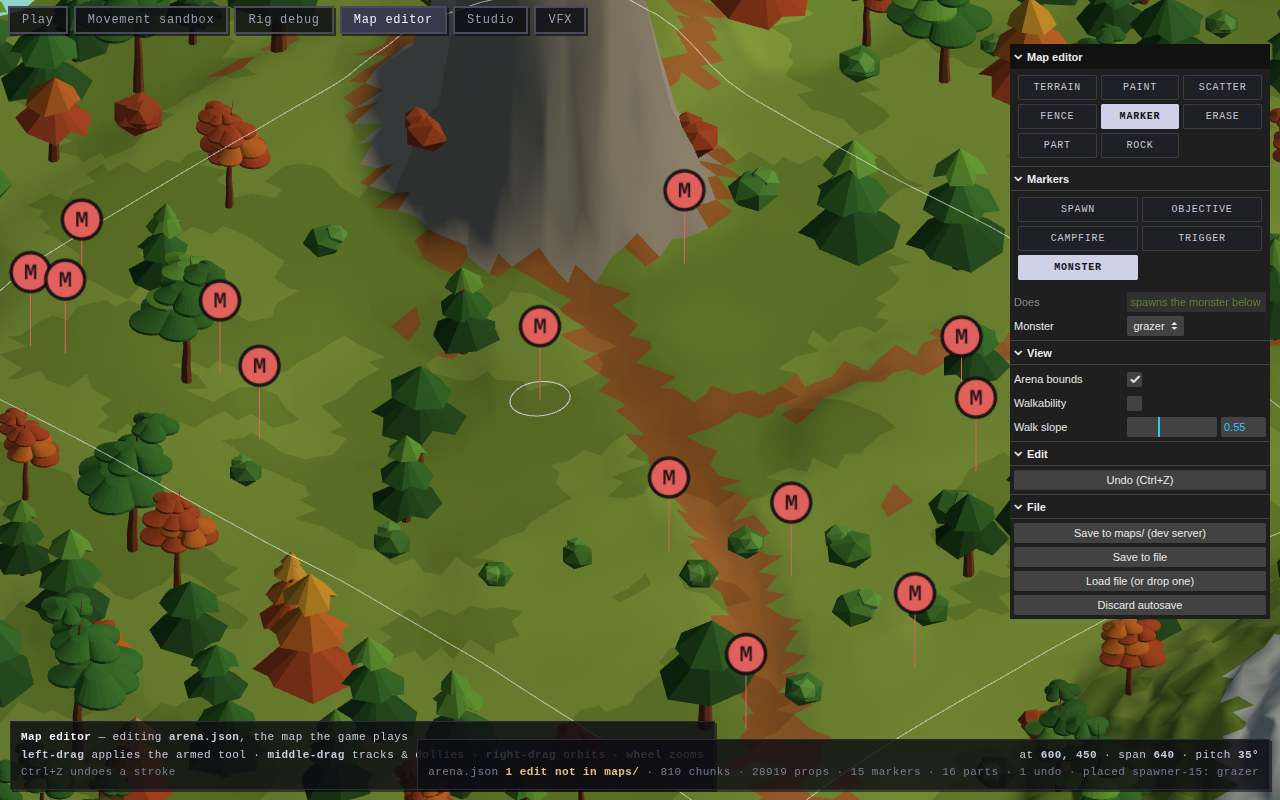
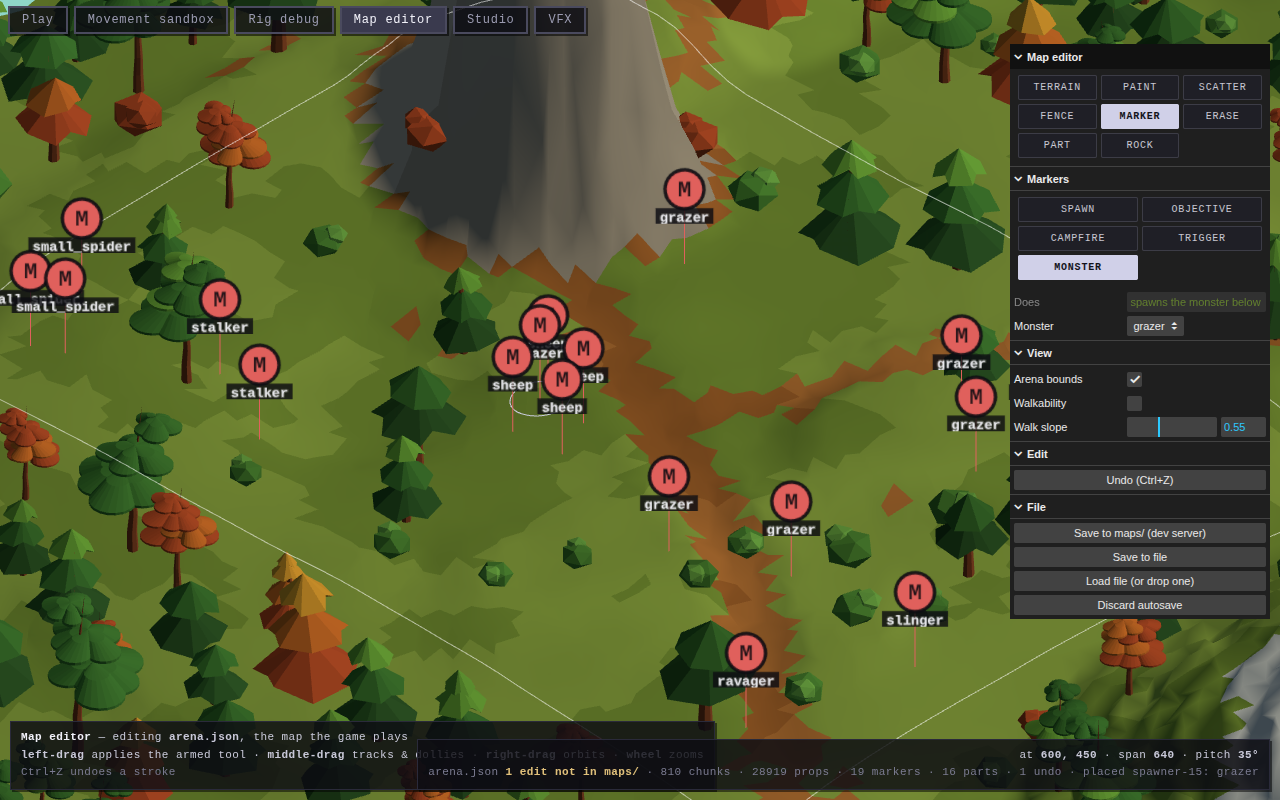
Write a spawner's monster on its marker in the map editor (#134)
* Write a spawner's monster on its marker in the map editor

The editor could already place a sheep -- the monster strip is derived
from `ALL_MONSTERS`, so adding the row put it in the dropdown -- but it
drew every spawner as the same red M. Four sheep, a slinger and a ravager
were six identical discs, and the one field that tells them apart is the
one the map view never showed. The in-game overlay has named its spawners
since spec 076; the editor, where they are actually placed, did not.

So a marker's disc now carries its label underneath it. Any labelled
marker, not just a spawner: a `trigger` named `boss-door` is worth reading
too, and a rule that applied to one kind is a rule somebody has to
remember to extend.

`markerCaption` is in `markers.ts` rather than in the view, for the reason
that file is pure -- what a marker *says* is a judgement and what it looks
like is drawing, and a judgement inside a canvas callback is one no test
can reach. The same split `world/spawner-overlay.ts` already makes.

Two things in the drawing are easy to get wrong and are worth the words
they cost:

  * the captioned texture is wider *and* the sprite is scaled by the same
    factors, so the disc comes out exactly the size it always was. A
    uniform scale on a wider texture squashes every disc on the map the
    moment one marker is given a name.
  * a captioned billboard is lowered by half the added height, because a
[…]

diff --git a/src/render/iso3d/editor/marker-view.ts b/src/render/iso3d/editor/marker-view.ts
@@ -1,6 +1,6 @@
 import * as THREE from 'three';
 import type { MapMarker, MapMarkerKind, MapRect } from '../../../terrain/index.js';
-import { MARKER_COLORS, MARKER_GLYPHS } from './markers.js';
+import { markerCaption, MARKER_COLORS, MARKER_GLYPHS } from './markers.js';
 
 /**
  * Drawing markers and the arena outline (spec 052).
@@ -22,19 +22,49 @@ const STEM_HEIGHT = 90;
 const TEXTURE_PX = 64;
 
 /**
+ * The captioned billboard: the same disc with a name written under it.
+ *
+ * Three times as wide as the plain one and a quarter again as tall, and the
+ * sprite is scaled by the same factors -- so the **disc comes out exactly the
+ * size it always was** and the caption is extra canvas around it rather than
+ * the marker shrinking to make room. Getting that wrong is subtle and ugly: a
+ * uniform sprite scale on a wider texture squashes every disc on the map the
+ * moment one marker is given a name.
+ */
+const CAPTION_W = TEXTURE_PX * 3;
+const CAPTION_H = TEXTURE_PX * 1.25;
+/** Font size for the caption, in texture pixels. */
+const CAPTION_PX = 19;
+/**
+ * How far a captioned billboard is lowered so its disc lands where a plain
+ * one's does.
+ *
+ * A sprite is centred on its position, and the caption is extra canvas *below*
+ * the disc -- so without this the disc rides up by half the added height and
+ * the stem, which is drawn to the exact point being marked, stops short of the
+ * thing it is pointing at. Half the growth, which is what recentring on the
+ * disc rather than on the picture comes to.
+ */
+const CAPTION_DISC_DROP = BILLBOARD_SIZE * 0.5 * (CAPTION_H / TEXTURE_PX - 1);
+
+/**
  * The disc texture for a kind, drawn once and shared by every marker of it. A
  * filled circle in the kind's colour, a dark rim so it reads against bright
  * snow, and its initial.
  */
-const textures = new Map<MapMarkerKind, THREE.Texture>();
+// Keyed by kind *and* caption: two spawners naming different monsters are two
+// different pictures, and a cache on the kind alone would hand the second one
+// the first one's name.
+const textures = new Map<string, THREE.Texture>();
 
-function markerTexture(kind: MapMarkerKind): THREE.Texture {
-  const cached = textures.get(kind);
+function markerTexture(kind: MapMarkerKind, caption: string): THREE.Texture {
+  const key = `${kind}|${caption}`;
+  const cached = textures.get(key);
   if (cached) return cached;
 
   const canvas = document.createElement('canvas');
-  canvas.width = TEXTURE_PX;
-  canvas.height = TEXTURE_PX;
+  canvas.width = caption === '' ? TEXTURE_PX : CAPTION_W;
+  canvas.height = caption === '' ? TEXTURE_PX : CAPTION_H;
   const ctx = canvas.getContext('2d');
   const texture = new THREE.CanvasTexture(canvas);
   // The canvas is painted with sRGB colours -- `MARKER_COLORS` as a CSS hex --
@@ -45,9 +75,13 @@ function markerTexture(kind: MapMarkerKind): THREE.Texture {
   texture.colorSpace = THREE.SRGBColorSpace;
   if (!ctx) return texture;
 
+  // The disc is drawn at the same pixel size on either canvas, centred in the
+  // top `TEXTURE_PX` band -- which is what keeps a captioned marker's disc the
+  // same size on screen as an uncaptioned one.
+  const cx = canvas.width / 2;
   const mid = TEXTURE_PX / 2;
   ctx.beginPath();
-  ctx.arc(mid, mid, mid - 5, 0, Math.PI * 2);
+  ctx.arc(cx, mid, mid - 5, 0, Math.PI * 2);
   ctx.fillStyle = `#${MARKER_COLORS[kind].toString(16).padStart(6, '0')}`;
   ctx.fill();
   ctx.lineWidth = 5;
@@ -58,20 +92,39 @@ function markerTexture(kind: MapMarkerKind): THREE.Texture {
   ctx.font = `bold ${TEXTURE_PX * 0.5}px "Courier New", monospace`;
   ctx.textAlign = 'center';
   ctx.textBaseline = 'middle';
-  ctx.fillText(MARKER_GLYPHS[kind], mid, mid + 2);
+  ctx.fillText(MARKER_GLYPHS[kind], cx, mid + 2);
+
+  if (caption !== '') {
+    const baseline = TEXTURE_PX + (CAPTION_H - TEXTURE_PX) / 2;
+    ctx.font = `bold ${CAPTION_PX}px "Courier New", monospace`;
+    // Drawn dark-on-light rather than straight onto the terrain: the map under
+    // a marker is snow, grass or rock depending where it was dropped, and a
+    // single text colour is illegible over at least one of them. A pill sized
+    // to the text is one measure and no layout.
+    const width = ctx.measureText(caption).width + 12;
+    ctx.fillStyle = 'rgba(12, 12, 18, 0.82)';
+    ctx.fillRect(cx - width / 2, baseline - CAPTION_PX * 0.72, width, CAPTION_PX * 1.4);
+    ctx.fillStyle = 'rgba(244, 244, 248, 0.96)';
+    ctx.fillText(caption, cx, baseline);
+  }
 
   texture.needsUpdate = true;
-  textures.set(kind, texture);
+  textures.set(key, texture);
   return texture;
 }
 
-const materials = new Map<MapMarkerKind, THREE.SpriteMaterial>();
+const materials = new Map<string, THREE.SpriteMaterial>();
 
-function markerMaterial(kind: MapMarkerKind): THREE.SpriteMaterial {
-  const cached = materials.get(kind);
+function markerMaterial(kind: MapMarkerKind, caption: string): THREE.SpriteMaterial {
+  const key = `${kind}|${caption}`;
+  const cached = materials.get(key);
   if (cached) return cached;
-  const material = new THREE.SpriteMaterial({ map: markerTexture(kind), depthTest: false, transparent: true });
-  materials.set(kind, material);
+  const material = new THREE.SpriteMaterial({
+    map: markerTexture(kind, caption),
+    depthTest: false,
+    transparent: true,
+  });
+  materials.set(key, material);
   return material;
 }
 
@@ -111,18 +164,26 @@ export function createMarkerView(): MarkerViewHandle {
         colour.setHex(MARKER_COLORS[marker.kind]);
         colors.set([colour.r, colour.g, colour.b, colour.r, colour.g, colour.b], i * 6);
 
+        const caption = markerCaption(marker);
         let sprite = sprites[i];
         if (!sprite) {
-          sprite = new THREE.Sprite(markerMaterial(marker.kind));
-          sprite.scale.setScalar(BILLBOARD_SIZE);
+          sprite = new THREE.Sprite();
           sprite.renderOrder = 21;
           sprites.push(sprite);
           group.add(sprite);
         }
-        // Reused across renders, so the material may need swapping for the kind
-        // that now occupies this slot.
-        sprite.material = markerMaterial(marker.kind);
-        sprite.position.set(marker.x, ground + STEM_HEIGHT, marker.z);
+        // Reused across renders, so both the material and the scale may need
+        // swapping for whatever now occupies this slot -- a captioned marker's
+        // sprite is wider, and a slot that held one and now holds a plain
+        // marker would otherwise stay stretched.
+        sprite.material = markerMaterial(marker.kind, caption);
+        if (caption === '') sprite.scale.set(BILLBOARD_SIZE, BILLBOARD_SIZE, 1);
+        else sprite.scale.set((BILLBOARD_SIZE * CAPTION_W) / TEXTURE_PX, (BILLBOARD_SIZE * CAPTION_H) / TEXTURE_PX, 1);
+        sprite.position.set(
+          marker.x,
+          ground + STEM_HEIGHT - (caption === '' ? 0 : CAPTION_DISC_DROP),
+          marker.z,
+        );
         sprite.visible = true;
       });
 

diff --git a/src/render/iso3d/editor/markers.test.ts b/src/render/iso3d/editor/markers.test.ts
@@ -13,7 +13,7 @@ import {
   type Rect,
 } from '../../../terrain/index.js';
 import { EditHistory } from './history.js';
-import { eraseMarkers, nextMarkerId, placeMarker } from './markers.js';
+import { markerCaption, eraseMarkers, nextMarkerId, placeMarker } from './markers.js';
 import { DEFAULT_SCATTER, eraseStroke, scatterStroke } from './scatter.js';
 
 /**
@@ -271,5 +271,42 @@ describe('undo', () => {
     history.undo(map.store);
     expect(map.store.markers(LAYER)).toHaveLength(1);
     expect(map.store.props(LAYER)).toHaveLength(props);
+  });
+});
+
+
+describe('what a marker says', () => {
+  /**
+   * The caption is the whole reason a spawner is placeable in the editor and
+   * not merely present in it. Every marker of a kind draws the same disc with
+   * the same letter, which is right for the kinds where the kind is the whole
+   * meaning -- and wrong for the one where the label *is* the meaning. A field
+   * of sheep and a ravager were the same red M until this.
+   */
+  it('names the monster a spawner spawns', () => {
+    expect(markerCaption({ label: 'sheep' })).toBe('sheep');
+    expect(markerCaption({ label: 'ravager' })).toBe('ravager');
+  });
+
+  it('says nothing for a marker that carries no label', () => {
+    // The four other kinds, and a spawner mid-placement before one is chosen.
+    // An empty caption is what puts a marker back on the plain billboard, so
+    // this is the case that keeps every unlabelled marker on the map the size
+    // it has always been.
+    // No `{ label: undefined }` case: `exactOptionalPropertyTypes` is on, so an
+    // explicit undefined is not a value this type can hold. Absent is the only
+    // way to not have one, and `{}` is it.
+    expect(markerCaption({})).toBe('');
+    expect(markerCaption({ label: '' })).toBe('');
+    // Whitespace is not a name. It would otherwise buy a marker a wider sprite
+    // and an empty black pill, which reads as a bug rather than as a blank.
+    expect(markerCaption({ label: '   ' })).toBe('');
+  });
+
+  it('is exactly the label, so what is drawn is what is stored', () => {
+    // No prettifying. `small_spider` is the id the document carries and the id
+    // the server refuses to boot without, so an editor that displayed
+    // "Small Spider" would be showing something nobody can search the map for.
+    expect(markerCaption({ label: 'small_spider' })).toBe('small_spider');
   });
 });

diff --git a/src/render/iso3d/editor/tools.test.ts b/src/render/iso3d/editor/tools.test.ts
@@ -3,7 +3,7 @@ import { TERRAIN_TOOLS } from './brush.js';
 import { fenceStep, FENCE_STYLES } from './fence.js';
 import { MARKER_KINDS } from './markers.js';
 import { PAINT_MATERIALS } from './paint.js';
-import {
+import { SPAWNER_MONSTER_CHOICES,
   createEditorSettings,
   cursorColor,
   cursorRadius,
@@ -22,6 +22,7 @@ import {
   type EditorMode,
   type EditorSettings,
 } from './tools.js';
+import { ALL_MONSTERS } from '../../../server/data/monsters.js';
 
 /**
  * Spec 058. The panel's *decisions* -- which tool is armed, whose settings that
@@ -212,5 +213,36 @@ describe('telling the marker kinds apart (spec 178)', () => {
       // written to the map and read by nobody, and the panel says so.
       expect(markerKindEffect(kind)).toMatch(/nothing reads it yet/);
     }
+  });
+});
+
+
+describe('the spawner monster picker', () => {
+  /**
+   * The property, rather than the contents: the picker is *derived* from the
+   * monster table, so adding a creature to the game adds it to the editor and
+   * nobody has to remember a second list. This is what would fail if somebody
+   * later replaced the derivation with a hand-written array -- which is the
+   * change that looks harmless and quietly makes the newest monster
+   * unplaceable.
+   */
+  it('offers exactly the monsters the game has, in table order', () => {
+    expect(SPAWNER_MONSTER_CHOICES.map((c) => c.value)).toEqual(ALL_MONSTERS.map((m) => m.id));
+  });
+
+  it('offers no monster the server would refuse to boot on', () => {
+    // `spawnPointsFrom` throws on a spawner naming a monster it cannot find, so
+    // an id in this list that is not in the table is a map the editor can write
+    // and the server cannot load.
+    const known = new Set(ALL_MONSTERS.map((m) => m.id));
+    for (const choice of SPAWNER_MONSTER_CHOICES) expect(known.has(choice.value), choice.value).toBe(true);
+  });
+
+  it('is not empty, so the strip always has something armed', () => {
+    // `defaultToolState` arms `SPAWNER_MONSTER_CHOICES[0]`, so an empty table
+    // would arm `''` -- a spawner with no monster, which is the one marker the
+    // document treats as invalid.
+    expect(SPAWNER_MONSTER_CHOICES.length).toBeGreaterThan(0);
+    expect(SPAWNER_MONSTER_CHOICES[0]?.value).not.toBe('');
   });
 });

diff --git a/src/render/iso3d/editor/markers.ts b/src/render/iso3d/editor/markers.ts
@@ -36,6 +36,30 @@ export const MARKER_GLYPHS: Record<MapMarkerKind, string> = {
 };
 
 /**
+ * What to write under a marker's disc, or `''` for one that needs nothing.
+ *
+ * A spawner is the reason this exists. Every marker of a kind draws the same
+ * coloured disc with the same letter on it, which is exactly right for the four
+ * kinds where the kind *is* the whole meaning -- one spawn point is much like
+ * another. A spawner's meaning is its label: it is the monster that stands
+ * there, it is the only thing separating a field of sheep from a ravager, and
+ * until this the editor drew both as the same red M. Placing a flock and
+ * placing a boss looked identical on the map you were editing.
+ *
+ * Pure, and here rather than in `marker-view.ts`, for the reason the whole file
+ * is: what a marker *says* is a judgement, what it looks like is drawing, and a
+ * judgement in a canvas callback is a judgement no test can reach. The same
+ * split `world/spawner-overlay.ts` makes for the in-game overlay.
+ *
+ * Any labelled marker gets its label, not just a spawner. A `trigger` named
+ * `boss-door` is worth reading too, and a rule that applied to one kind would
+ * be a rule somebody has to remember to extend.
+ */
+export function markerCaption(marker: Pick<MapMarker, 'label'>): string {
+  return marker.label?.trim() ?? '';
+}
+
+/**
  * The next free id for a kind: `spawn-1`, `spawn-2`, and so on.
  *
  * The **lowest** free number, not one past the highest, so deleting `spawn-2`
